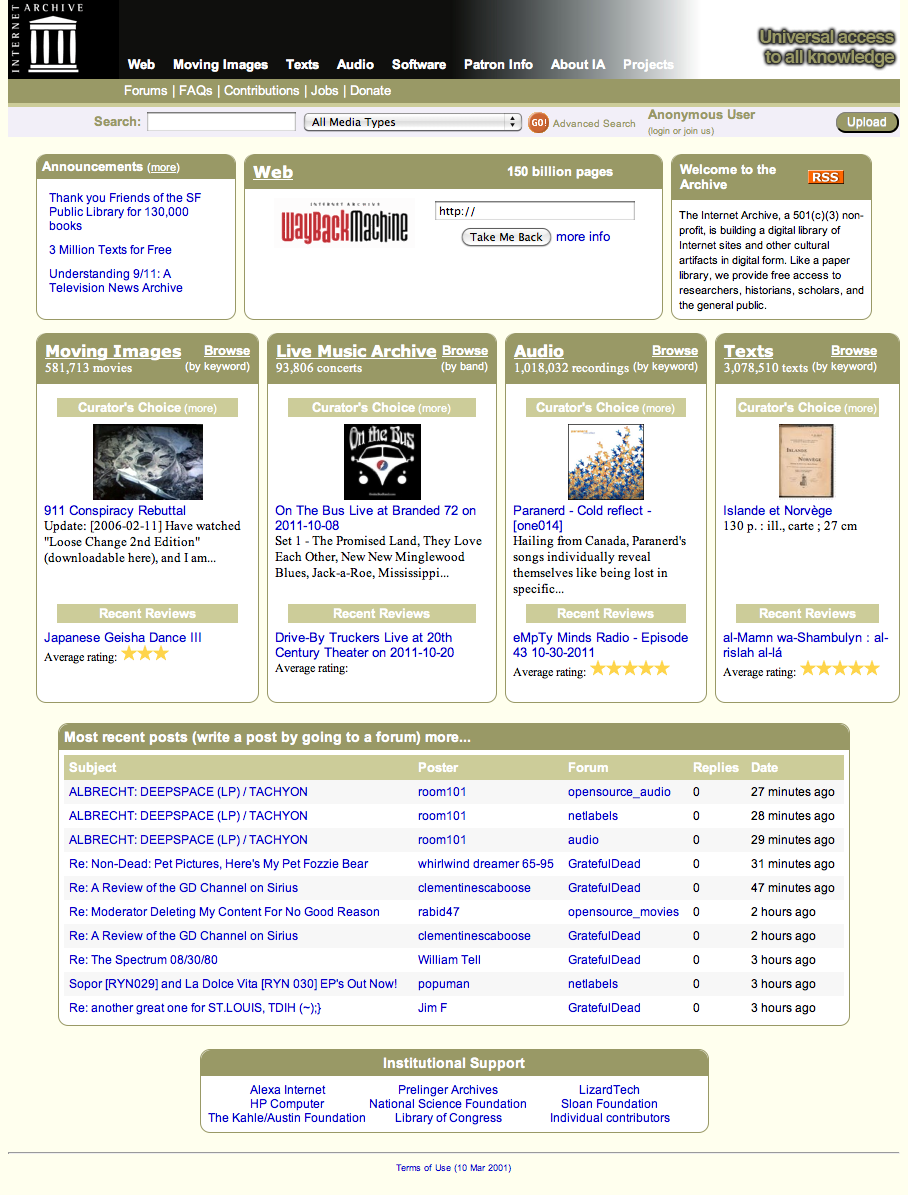
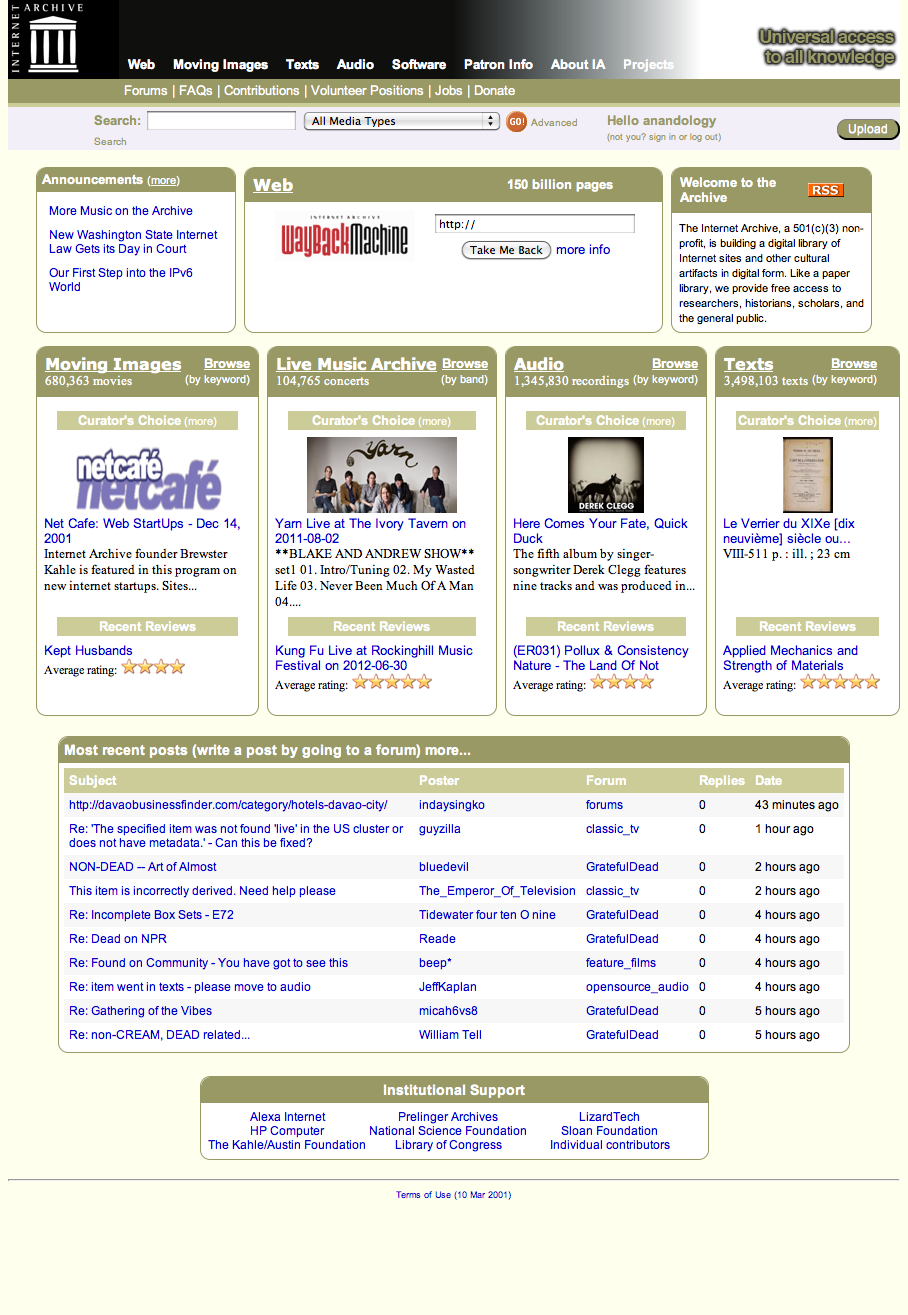
updates

diff --git a/arch.md b/arch.md
@@ -1,75 +1,64 @@
-# Big data #
+# Big Data 
+
+* 3.5 million books
+* 170+ billion web pages
+* More than 6 Petabytes of data
 
 ----
 
-# Most considerations are short term #
+# Items #
+* Fundamental unit of storage. 
+* The archive is basically a large collection of items (10 million+).
+* A directory tree consisting of
+    * Original files
+    * Derivatives
+    * XML Metadata
+* Each item is stored on two servers for redundancy.
 
+----
 
------
-# Where would you store your data? #
+# Item example #
 
 .fx: notitle
 
-<img src="images/xdrive.png" style="width: 100%;"/>
+<img src="images/item-1.png" style="width: 100%;"/>
 
 <div class="banner">
-    <h3>Where would you store your valuable data?</h3>
+    <h3><a href="http://archive.org/details/HollywoodWithoutMakeup">http://archive.org/details/HollywoodWithoutMakeup</a></h3>
+    
 </div>
 
 ----
 
-# How would you store your data? #
+# Item example #
 
 .fx: notitle
 
-<img src="images/zipdrive.png" style="width: 100%;"/>
+<img src="images/item-2.png" style="width: 100%;"/>
 
 <div class="banner">
-    <h3>How would you store your valuable data?</h3>
+    <h3><a href="http://archive.org/details/HollywoodWithoutMakeup">http://archive.org/details/HollywoodWithoutMakeup</a></h3>
+    
 </div>
 
 ----
+# Collections #
 
-# Landfill #
+* `Collections` are groups of items.
+* Used for classification.
+
+----
+
+# Collection example #
 
 .fx: notitle
 
-<img src="images/landfill.jpg" style="height: 100%;"/>
+<img src="images/collection.png" style="width: 100%;"/>
 
 <div class="banner">
-    <h3>What can you recover from a hardisk you find here?</h3><br/>
-    <a href="http://chrissycarpenter.files.wordpress.com/2010/10/landfill.jpg">http://chrissycarpenter.files.wordpress.com/2010/10/landfill.jpg</a>
+    <h3><a href="http://archive.org/details/netlabels">http://archive.org/details/netlabels</a></h3>
+    
 </div>
-
-----
-
-# A different perspective : Long term preservation #
-
-----
-
-# Aims #
-* Universal access to all knowledge.
-* Emphasis on preservation and archival.
-* *"Code dies, data lives on".*
-
-----
-
-# Principles #
-* Simplicity. Battle tested technologies.
-* Independence and self-sufficiency.
-* Low maintenance.
-* Low cost.
-
-----
-
-# Design #
-* Flat file storage.
-* Self contained - Metadata stored along with data.
-* Reliable formats - Easy to access *forever*.
-* Redundancy
-    * Paired storage.
-    * Mirrored at the Bibliotheca Alexandrina <http://archive.bibalex.org/>
-* Unix permissions
 
 ----
 
@@ -82,9 +71,6 @@
 * No air conditioning
 * Fits in a shipping container. 
 * Currently 4 data centres - 1300 nodes, 11000 spinning disks
-* 2.4 PB for the wayback machine. 
-* 1.7 PB for Books/video/audio collections.
-* 5.8 PB Total used storage.
 
 ---- 
 
@@ -137,68 +123,11 @@
         <a href="http://www.computerwoche.de/bild-zoom/1891307/1/489893/EL_12381492082557490680957/">http://www.computerwoche.de/bild-zoom/1891307/1/489893/EL_12381492082557490680957/</a>
     
 </div>
-----
-
-# Implementation #
 
 ----
 
-# Items #
-* Fundamental unit of storage. 
-* The archive is basically a large collection of items.
-* A directory tree consisting of
-    * Original files
-    * Derivatives
-    * XML Metadata
-* Each item is stores on two servers for redundancy.    
+# Main services
 
-----
-
-# Item example #
-
-.fx: notitle
-
-<img src="images/item-1.png" style="width: 100%;"/>
-
-<div class="banner">
-    <h3><a href="http://archive.org/details/HollywoodWithoutMakeup">http://archive.org/details/HollywoodWithoutMakeup</a></h3>
-    
-</div>
-
-----
-
-# Item example #
-
-.fx: notitle
-
-<img src="images/item-2.png" style="width: 100%;"/>
-
-<div class="banner">
-    <h3><a href="http://archive.org/details/HollywoodWithoutMakeup">http://archive.org/details/HollywoodWithoutMakeup</a></h3>
-    
-</div>
-
-----
-# Collections #
-
-* `Collections` are groups of items.
-* Used for classification.
-
-----
-
-# Collection example #
-
-.fx: notitle
-
-<img src="images/collection.png" style="width: 100%;"/>
-
-<div class="banner">
-    <h3><a href="http://archive.org/details/netlabels">http://archive.org/details/netlabels</a></h3>
-    
-</div>
-
-----
-# Main services #
 * The site functions using three main pieces
     * The locator
     * The catalog
@@ -235,6 +164,50 @@
 * KVM for virtualisation.
 * Nagios, graphite, MRTG, cacti
 
----
+----
 
-# Questions?
+# What makes the Archive different?
+
+-----
+# Where would you store your data? #
+
+.fx: notitle
+
+<img src="images/xdrive.png" style="width: 100%;"/>
+
+<div class="banner">
+    <h3>Where would you store your valuable data?</h3>
+</div>
+
+----
+
+# How would you store your data? #
+
+.fx: notitle
+
+<img src="images/zipdrive.png" style="width: 100%;"/>
+
+<div class="banner">
+    <h3>How would you store your valuable data?</h3>
+</div>
+
+----
+
+# The Approach
+
+* Long term preservation
+* Simplicity. Battle tested technologies.
+* Independence and self-sufficiency.
+* Low maintenance.
+* Low cost.
+* *"Code dies, data lives on".*
+
+----
+
+# Thanks!
+
+.fx: center
+
+## See us at the Internet Archive stall on the first floor.
+
+http://archive.org/

diff --git a/ia.md b/ia.md
@@ -24,19 +24,19 @@
     <a src="http://www.archive.org/">Internet Archive</a>
 </p>
 
-
 ----
 
-# Internet Archive
+# The Internet Archive
 
 .fx: notitle
 
-<img src="images/ialogo.png" style="height: 100%"/>
+<img src="images/archive-building.jpg" style="height: 100%; margin-left: -70px;"/>
 
+<div class="banner">
+    <h3>The Internet Archive</h3>
+    <span>http://www.flickr.com/photos/blmurch/5079018246/</span>
+</div>
 
----
-
-# Universal Access to All Knowledge
 
 ---
 
@@ -45,19 +45,6 @@
 .fx: notitle
 
 <img src="images/ia-sf-bangalore.png" style="height: 100%;"/>
-
-
----
-
-# Internet Archive
-
-.fx: notitle
-
-<img src="images/ia-home.png" style="width: 100%;"/>
-
-<div class="banner">
-    <h3>http://archive.org/</h3>
-</div>
 
 ---
 
@@ -96,6 +83,18 @@
 
 <div class="banner">
     <h3 style="font-size: 1.1em"><a href="http://web.archive.org/web/19980627072808/http://www.sciam.com/0397issue/0397kahle.html">http://web.archive.org/web/19980627072808/http://www.sciam.com/0397issue/0397kahle.html</a></h3>
+</div>
+
+---
+
+# archive.org in 1997
+
+.fx: notitle
+
+<img src="images/wayback-archive-full.png" style="width: 100%"/>
+
+<div class="banner">
+    <h3>archive.org in 1997</h3>
 </div>
 
 ---
@@ -291,7 +290,7 @@
 
 The book reader can be embedded in any web page. 
 
-<iframe src='http://www.archive.org/stream/opticksortreatisnewt?ui=embed#mode/2up' width='100%' height='70%' frameborder='0' >
+<iframe src='http://www.archive.org/stream/opticksortreatisnewt?ui=embed#mode/2up' width='100%' height='480px' frameborder='0' >
 </iframe>
 
 ---
@@ -304,3 +303,20 @@ The book reader can be embedded in any web page.
 </div>
 <img style="float: left; width: 45%; padding: 10px;" src="images/opticks-newton2.jpg" />
 </div>
+
+---
+
+# Internet Archive
+
+.fx: notitle
+
+<img src="images/ia-home.png" style="width: 100%;"/>
+
+<div class="banner">
+    <h3>http://archive.org/</h3>
+</div>
+
+---
+
+# Universal Access to All Knowledge
+
